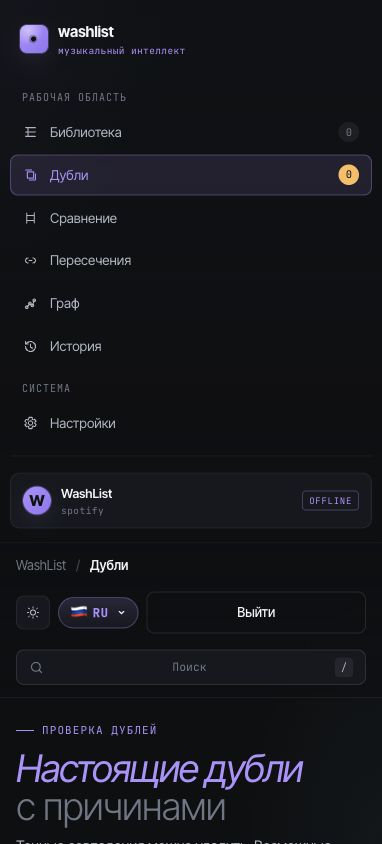
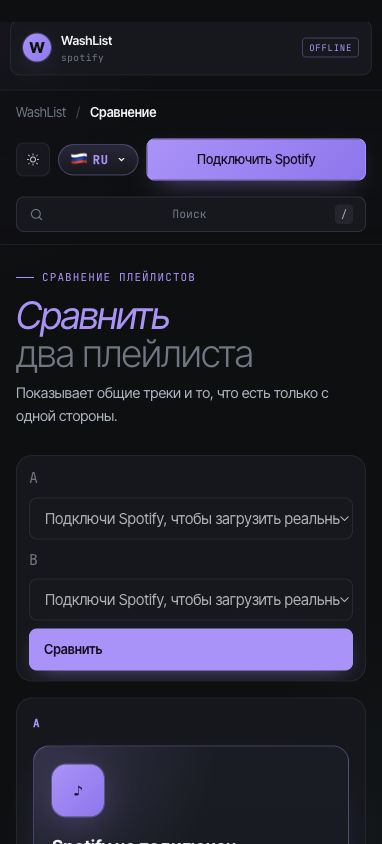
Sync docs and QA with current auth flow

diff --git a/styles/live.css b/styles/live.css
@@ -297,6 +297,20 @@ body.signed-out #logoutBtn {
   letter-spacing: .04em;
 }
 
+.compare-col .auth-gate {
+  grid-template-columns: 1fr;
+  align-items: start;
+}
+
+.compare-col .auth-gate .btn-app {
+  width: 100%;
+  justify-content: center;
+}
+
+.compare-col .auth-gate-copy p {
+  max-width: none;
+}
+
 .playlist-row {
   display: grid;
   grid-template-columns: minmax(280px, 1fr) 110px 110px 150px auto;
@@ -846,10 +860,18 @@ body.app-entering .view {
 
   .filter-bar {
     align-items: stretch;
+    overflow: hidden;
   }
 
   .search-input {
     min-width: 100%;
+  }
+
+  .filter-bar .select,
+  .filter-bar .btn-app {
+    flex: 1 1 100%;
+    width: 100%;
+    min-width: 0;
   }
 
   .btn-app,

diff --git a/app.html b/app.html
@@ -11,9 +11,9 @@
 <link rel="preconnect" href="https://fonts.googleapis.com">
 <link rel="preconnect" href="https://fonts.gstatic.com" crossorigin>
 <link href="https://fonts.googleapis.com/css2?family=Inter+Tight:ital,wght@0,300..900;1,300..900&family=JetBrains+Mono:wght@400;500&display=swap" rel="stylesheet">
-<link rel="stylesheet" href="styles/tokens.css?v=20260526-auth-fix">
-<link rel="stylesheet" href="styles/app.css?v=20260526-auth-fix">
-<link rel="stylesheet" href="styles/live.css?v=20260526-auth-fix">
+<link rel="stylesheet" href="styles/tokens.css?v=20260526-status-sync">
+<link rel="stylesheet" href="styles/app.css?v=20260526-status-sync">
+<link rel="stylesheet" href="styles/live.css?v=20260526-status-sync">
 </head>
 <body>
 <canvas class="bg-canvas" id="bg-canvas" aria-hidden="true"></canvas>
@@ -318,7 +318,7 @@
 
 <div class="toast-stack" id="toasts"></div>
 
-<script src="js/waveform-bg.js?v=20260526-auth-fix"></script>
-<script src="js/washlist-app.js?v=20260526-auth-fix"></script>
+<script src="js/waveform-bg.js?v=20260526-status-sync"></script>
+<script src="js/washlist-app.js?v=20260526-status-sync"></script>
 </body>
 </html>

diff --git a/js/washlist-app.js b/js/washlist-app.js
@@ -1,5 +1,4 @@
 (() => {
-  const CLIENT_ID = '5ce8326e147f46b3b11ebc24ac37bf7c';
   const TOKEN_KEY = 'wl_t';
   const EXPIRES_KEY = 'wl_e';
   const HISTORY_KEY = 'wl_h';
@@ -594,8 +593,7 @@
       document.getElementById('uName').textContent = me.display_name || 'Spotify user';
       document.getElementById('uPlan').textContent = me.product || 'spotify';
       await loadPlaylists();
-    } catch (error) {
-      console.warn('init failed', error?.message || error);
+    } catch {
       toast(t('toast.loadErr'), 'err');
       showSignedOut();
     } finally {
@@ -897,7 +895,6 @@
       state.playlistData[id] = { status: 'done', tracks, tc: tracks.length, ...result };
       setScanHeader(t('scan.done'), 100);
     } catch (error) {
-      console.warn('scan failed', error?.message || error);
       state.playlistData[id] = { status: 'error', err: error.message };
       if (!options.quiet) toast(t('toast.scanErr', { playlist: playlist.name }), 'err');
     }
@@ -1367,8 +1364,7 @@
           if (state.accessToken) scanPlaylist(playlist.id, { quiet: true });
         }, 1800);
       }
-    } catch (error) {
-      console.warn('remove failed', error?.message || error);
+    } catch {
       toast(t('toast.apiErr'), 'err');
     } finally {
       state.pendingRemovals.delete(removalKey);

diff --git a/index.html b/index.html
@@ -17,8 +17,8 @@
 <link rel="preconnect" href="https://fonts.googleapis.com">
 <link rel="preconnect" href="https://fonts.gstatic.com" crossorigin>
 <link href="https://fonts.googleapis.com/css2?family=Inter+Tight:ital,wght@0,300..900;1,300..900&family=JetBrains+Mono:wght@400;500&display=swap" rel="stylesheet">
-<link rel="stylesheet" href="styles/tokens.css?v=20260526-auth-fix">
-<link rel="stylesheet" href="styles/landing-transition.css?v=20260526-auth-fix">
+<link rel="stylesheet" href="styles/tokens.css?v=20260526-status-sync">
+<link rel="stylesheet" href="styles/landing-transition.css?v=20260526-status-sync">
 <style>
   /* Match app accent (violet) — overrides tokens.css */
   :root {
@@ -1246,6 +1246,6 @@
     }, 2400);
   })();
 </script>
-<script src="js/landing-auth.js?v=20260526-auth-fix"></script>
+<script src="js/landing-auth.js?v=20260526-status-sync"></script>
 </body>
 </html>

diff --git a/README.md b/README.md
@@ -43,16 +43,29 @@ It scans playlists, builds normalized track fingerprints, explains why items are
 
 ## Screens
 
-| Landing | App shell | Mobile |
+| Landing | App auth + compare | Mobile compare |
 | --- | --- | --- |
-| <img src="./docs/assets/washlist-landing.jpg" alt="WashList landing page screenshot" width="100%"> | <img src="./docs/assets/washlist-app.jpg" alt="WashList app shell screenshot" width="100%"> | <img src="./docs/assets/washlist-mobile.jpg" alt="WashList mobile duplicate review screenshot" width="100%"> |
+| <img src="./docs/assets/washlist-landing.jpg" alt="WashList landing page screenshot" width="100%"> | <img src="./docs/assets/washlist-app.jpg" alt="WashList signed-out compare screenshot" width="100%"> | <img src="./docs/assets/washlist-mobile.jpg" alt="WashList mobile compare connect screenshot" width="100%"> |
+
+Screens intentionally include the signed-out app state: users should always see a useful Spotify connection path instead of an empty or broken workspace.
+
+## Current Status
+
+| Area | Status |
+| --- | --- |
+| Spotify auth | `index.html?connect=1` starts PKCE immediately. `app.html?connect=1` preserves that intent and redirects to the landing auth flow. |
+| Signed-out UX | Internal app routes show a clear Spotify connect gate instead of looking broken or empty. |
+| Compare view | Playlist comparison renders album artwork, track title, artist, duration, and shared-match state. |
+| Duplicate safety | Metadata groups require close duration or explicit version evidence. Artist-only matches are never duplicates. |
+| Static deployment | CSS/JS references include cache-busting query strings so GitHub Pages serves the current app after deploy. |
+| Regression checks | `tools/qa-check.mjs` covers auth route intent, auth-gate UI, compare artwork, cache busting, token storage, and duplicate guards. |
 
 ## Product Tour
 
 <details open>
 <summary><b>1. Connect</b> · Spotify PKCE without a backend</summary>
 
-The landing page keeps the product promise focused: connect Spotify, scan playlists, review duplicates. Demo mode was removed so the primary path stays honest and production-shaped.
+The landing page keeps the product promise focused: connect Spotify, scan playlists, review duplicates. Direct app entry shows a connect gate, and `?connect=1` starts the Spotify flow instead of dropping users into an empty workspace.
 </details>
 
 <details open>
@@ -121,7 +134,7 @@ This prevents the classic false positive: different songs by the same artist bei
 | Smart matching | Groups exact duplicates, probable duplicates, related versions, and review items separately. |
 | Safe cleanup | Supports dry-run, per-track removal, group removal, and local cleanup history. |
 | Explainability | Every duplicate group shows the reason and confidence. |
-| Comparison | Compares two playlists and highlights shared tracks. |
+| Comparison | Compares two playlists with album artwork and highlights shared tracks. |
 | Overlap map | Finds tracks living in several playlists at once. |
 | Graph view | Visualizes playlist relationships. |
 | Localization | English, Russian, German, Spanish, French with fallback behavior. |
@@ -223,8 +236,11 @@ Open:
 
 1. Create an app in the [Spotify Developer Dashboard](https://developer.spotify.com/dashboard).
 2. Add redirect URI: `https://stonerhand.github.io/WashList/`.
-3. Keep the public client id in [js/landing-auth.js](./js/landing-auth.js).
-4. Open the site and click **Connect Spotify**.
+3. For local OAuth testing, also add `http://127.0.0.1:4173/index.html`.
+4. Keep the public client id in [js/landing-auth.js](./js/landing-auth.js).
+5. Open the site and click **Connect Spotify**.
+
+The Spotify client id is public by design for PKCE. Do not add a Spotify client secret to this static frontend.
 
 ## Quality Gates
 
@@ -242,9 +258,12 @@ Manual smoke checklist:
 
 - Landing opens without console errors.
 - Language switcher updates the product preview and marquee.
-- App without auth shows a connect state, not demo data.
+- App without auth shows a localized Spotify connect gate, not demo data.
+- `app.html?connect=1` redirects to `index.html?connect=1` and starts the PKCE flow.
 - `#library`, `#duplicates`, `#compare`, `#overlap`, `#graph`, `#history`, `#settings` deep links select the right section.
+- Compare rows show album artwork and do not collapse to text-only lists.
 - Search is debounced and does not visibly lag.
+- Metadata-only duplicate groups require close duration or explicit version evidence.
 - Duplicate removal disables repeat clicks and removes confirmed tracks from local results.
 - Logout clears session-scoped Spotify credentials.
 - Mobile viewport has no horizontal overflow.

diff --git a/docs/i18n.md b/docs/i18n.md
@@ -29,6 +29,9 @@ Both landing and app keep local dictionaries in JavaScript because the project i
 | Related version | Version | Версия |
 | Scan | Scan | Сканировать |
 | Playlist | Playlist | Плейлист |
+| Connect Spotify | Connect Spotify | Подключить Spotify |
+| Auth gate | Spotify is not connected | Spotify не подключен |
+| Album artwork | Artwork | Обложка |
 
 ## Translation Workflow
 
@@ -49,5 +52,7 @@ Recommended process for production:
 - Verify long German/French strings do not overflow buttons, cards, or nav.
 - Verify Russian wording stays short and natural.
 - Verify language choice persists after reload.
+- Verify signed-out auth gate strings are localized on every app route.
+- Verify compare rows keep artwork, title, artist, duration, and shared state readable in long translations.
 - Verify dates and numbers are locale-formatted.
 - Verify HTML-enabled marketing strings are sanitized to the allowed tags.

diff --git a/docs/security.md b/docs/security.md
@@ -6,13 +6,17 @@ WashList is a static frontend app that talks directly to Spotify. This keeps the
 
 - PKCE OAuth is used for Spotify authorization.
 - Spotify email scope is not requested.
+- The Spotify client id is public PKCE configuration. No Spotify client secret is stored in the frontend.
 - Spotify access token is session-scoped instead of long-lived local storage.
 - Logout clears token data from both session and legacy local storage.
+- Direct app entry without auth renders a connect gate instead of private data or broken controls.
 - User/API data is escaped before HTML rendering.
 - Landing HTML translations are sanitized to a small allowlist.
 - Duplicate removal is guarded against repeated clicks.
 - Basic CSP and referrer meta tags are present in static HTML.
 - App page is marked `noindex,nofollow`.
+- Runtime app scripts avoid console logging of API failures or private data.
+- Static CSS/JS references are cache-busted so GitHub Pages deploys do not leave users on stale auth logic.
 
 ## Remaining Frontend Risks
 
@@ -58,4 +62,5 @@ If inline scripts remain, use CSP nonces or hashes rather than broad `unsafe-inl
 - Logout removes token state.
 - External links use `rel="noopener noreferrer"`.
 - Direct `app.html` without auth shows connect state, not private data.
+- `app.html?connect=1` preserves OAuth intent and redirects to the landing PKCE flow.
 - Fast repeated clicks do not repeat destructive UI actions.